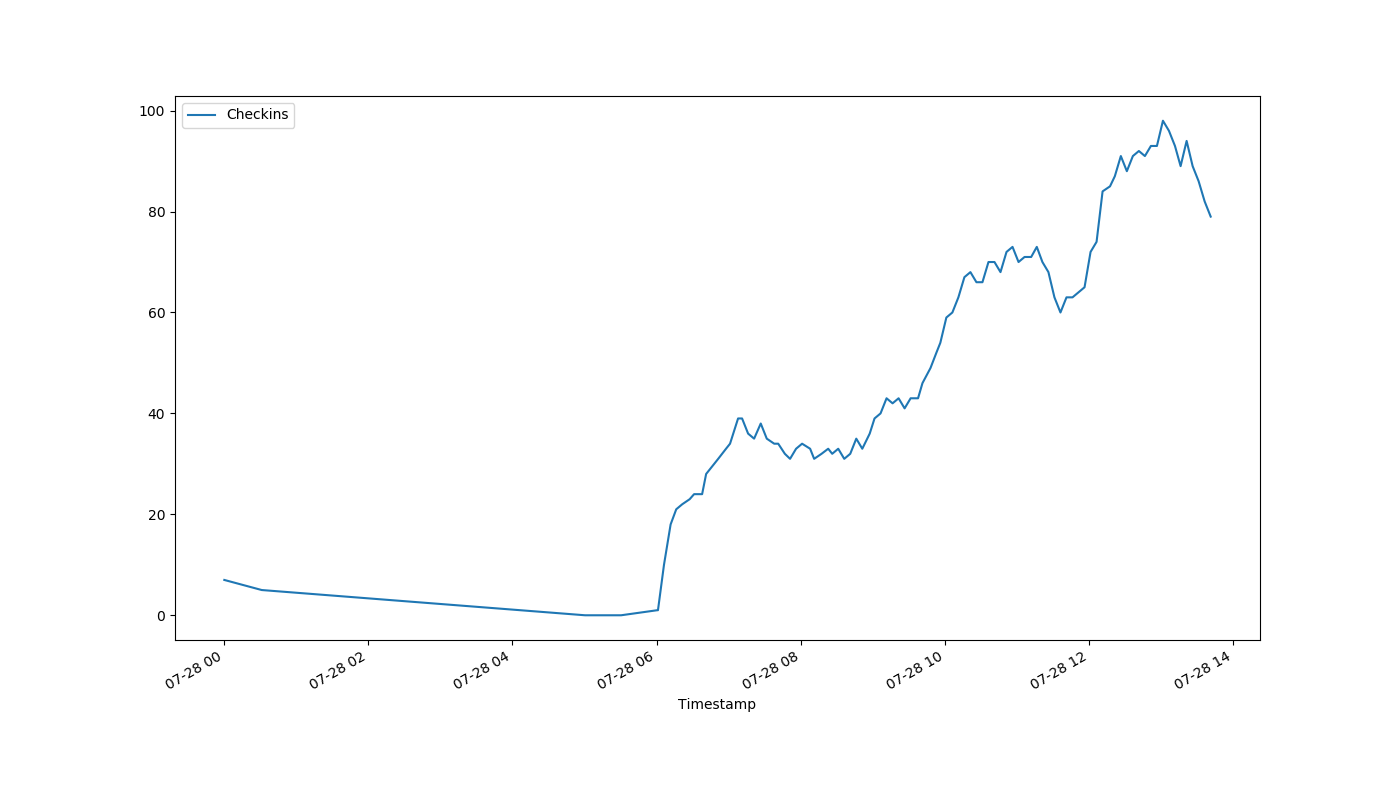
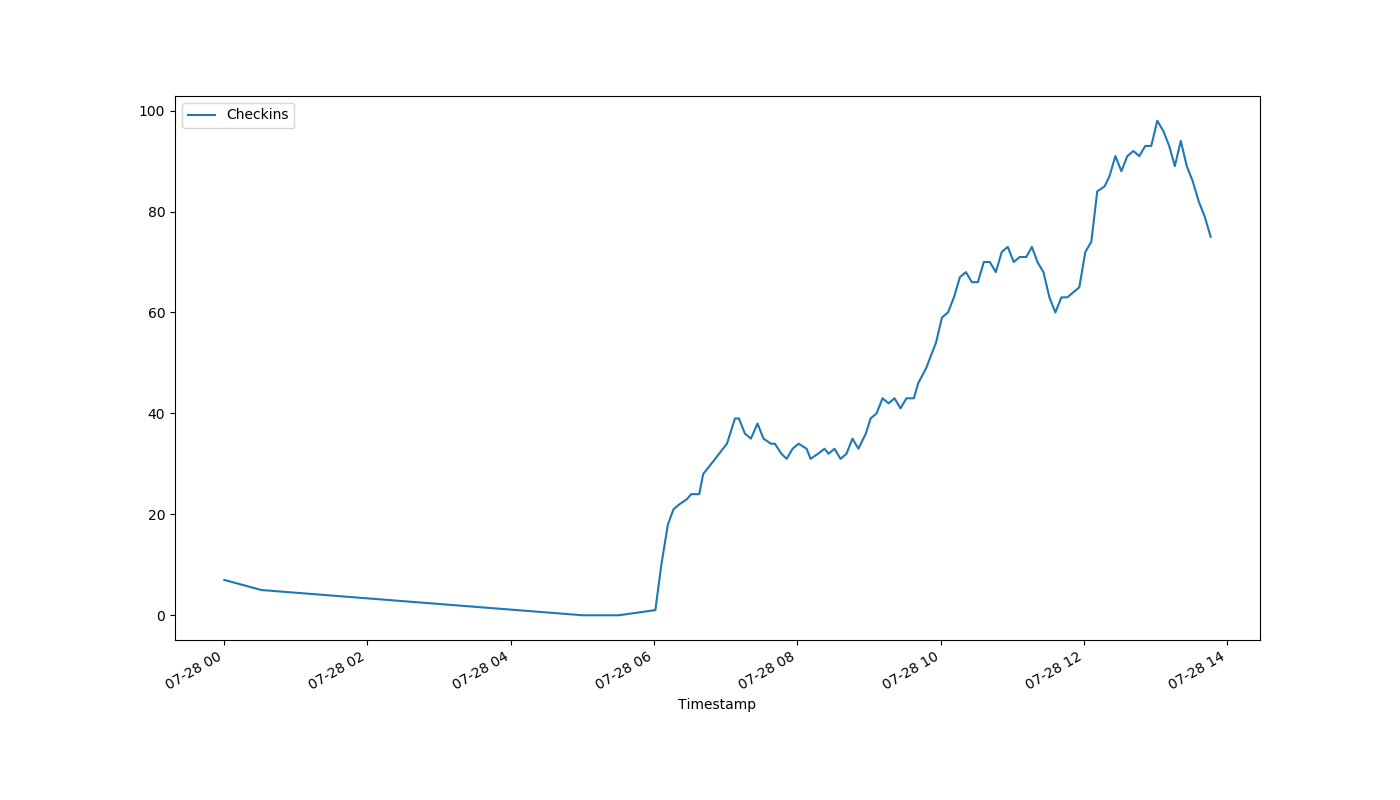
auto-Jul-28-13:46:35

diff --git a/index.html b/index.html
@@ -1,1 +1,1 @@
-<!DOCTYPE html><html><head><meta http-equiv="refresh" content="30"><link rel='stylesheet' href='holmcurrent.css'></head><body><p id='count'>79</p><div id='graph-wrap'><img id='graph' src='holmgraph-Jul-28.png'></div><p id='updated'>Last updated 13:41:03 / 13:41:01</p></body></html>
+<!DOCTYPE html><html><head><meta http-equiv="refresh" content="30"><link rel='stylesheet' href='holmcurrent.css'></head><body><p id='count'>75</p><div id='graph-wrap'><img id='graph' src='holmgraph-Jul-28.png'></div><p id='updated'>Last updated 13:46:03 / 13:46:02</p></body></html>
